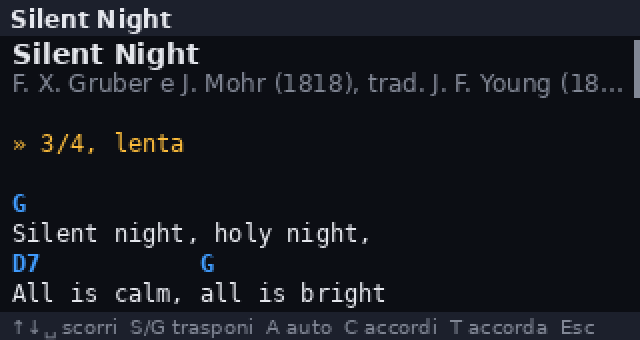
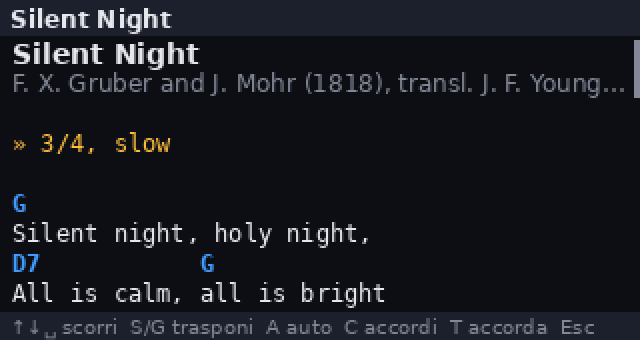
Brani: sottotitoli, note e sezioni in inglese
Sottotitoli ("public domain"), commenti visibili e sezioni dei 10 brani
in canzoni/ e dei 4 esempi creati al primo avvio ora sono in inglese;
"Esercizio arpeggio" diventa "Arpeggio exercise". I testi delle canzoni
non cambiano. Le cartelle ~/canzoni già esistenti non vengono toccate.
Schermate in docs/ aggiornate.

Claude-Session: https://claude.ai/code/session_0178xKTs3XtUrqAixMXrofCa

Changed region(s): [[0.5312, 0.2059, 0.9375, 0.2941], [0.25, 0.2059, 0.5, 0.2941], [0.1562, 0.3824, 0.3125, 0.4706]]

diff --git a/accordatore/songbook.py b/accordatore/songbook.py
@@ -608,9 +608,9 @@ def save_conf(conf: dict):
 EXAMPLES = {
     "Amazing Grace.cho": """\
 {title: Amazing Grace}
-{subtitle: John Newton, 1779 - pubblico dominio}
+{subtitle: John Newton, 1779 - public domain}
 {key: G}
-{comment: 3/4, lenta. Arrangiamento semplice di esempio}
+{comment: 3/4, slow. Simple example arrangement}
 
 [G]Amazing [G7]grace! How [C]sweet the [G]sound
 That [G]saved a [Em]wretch like [D]me! [D7]
@@ -623,9 +623,9 @@ How [G]precious [G7]did that [C]grace ap[G]pear
 The [G]hour I [D]first be[G]lieved!
 """,
     "Greensleeves.txt": """\
-Tradizionale inglese, XVI secolo - pubblico dominio
+Traditional English, 16th century - public domain
 
-[Strofa]
+[Verse]
 Am       G         Am    E
 Alas, my love, you do me wrong,
 Am         G   E
@@ -635,7 +635,7 @@ For I have loved you well and long,
 Am            E    Am
 Delighting in your company.
 
-[Ritornello]
+[Chorus]
 C            G       Am E
 Greensleeves was all my joy
 C            G      E
@@ -647,7 +647,7 @@ And who but my lady Greensleeves.
 """,
     "Quel mazzolin di fiori.cho": """\
 {title: Quel mazzolin di fiori}
-{subtitle: Canto popolare - pubblico dominio}
+{subtitle: Italian folk song - public domain}
 {key: C}
 
 [C]Quel mazzolin di [G]fiori
@@ -660,10 +660,10 @@ perché l'è un bel maz[C]zetto
 lo voglio dare al mio mo[F]ret[C]to
 questa [G]sera quando [C]vien.
 """,
-    "Esercizio arpeggio.cho": """\
-{title: Esercizio: arpeggio Am - C - G - E}
-{subtitle: esempio di intavolatura}
-{comment: Pollice sui bassi, poi indice-medio-anulare}
+    "Arpeggio exercise.cho": """\
+{title: Arpeggio exercise: Am - C - G - E}
+{subtitle: tablature example}
+{comment: Thumb on the bass strings, then index-middle-ring}
 
 {start_of_tab}
    Am        C         G         E
@@ -675,7 +675,7 @@ A|-0-------|-3-------|---------|---------|
 E|---------|---------|-3-------|-0-------|
 {end_of_tab}
 
-[Am]Ripeti quattro volte, [C]poi cambia [G]accordo [E]
+[Am]Repeat four times, [C]then change [G]chord [E]
 """,
 }
 

diff --git a/canzoni/LEGGIMI.md b/canzoni/LEGGIMI.md
@@ -25,7 +25,7 @@ Licenza: [Creative Commons Attribuzione - Condividi allo stesso modo 4.0](https:
 | Drunken Sailor | <https://de.wikibooks.org/wiki/Liederbuch/_What_shall_we_do_with_the_drunken_sailor> |
 | Auld Lang Syne | accordi: <https://de.wikibooks.org/wiki/Liederbuch/_Auld_Lang_Syne>; testo: [Wikisource, ed. 1887](https://en.wikisource.org/wiki/The_Poetical_Works_of_Robert_Burns/Auld_Lang_Syne) |
 
-Modifiche rispetto alle fonti: conversione in formato ChordPro, righe divise per lo schermo da 320×170, note in italiano, notazione tedesca H7 resa come B7, correzione di un refuso ("Haeve" → "Heave"), tolti gli accordi blues opzionali nell'ultima strofa di Swing Low. Dove serviva, sono state integrate strofe di pubblico dominio (Danny Boy: testo del 1913). I dettagli sono nelle righe `#` di ogni file. Queste versioni modificate sono distribuite con la stessa licenza CC BY-SA 4.0.
+Modifiche rispetto alle fonti: conversione in formato ChordPro, righe divise per lo schermo da 320×170, note e sottotitoli in inglese, notazione tedesca H7 resa come B7, correzione di un refuso ("Haeve" → "Heave"), tolti gli accordi blues opzionali nell'ultima strofa di Swing Low. Dove serviva, sono state integrate strofe di pubblico dominio (Danny Boy: testo del 1913). I dettagli sono nelle righe `#` di ogni file. Queste versioni modificate sono distribuite con la stessa licenza CC BY-SA 4.0.
 
 ## MIT — accordi da cardinote/christmas-chords-lyrics
 
@@ -42,7 +42,7 @@ Modifiche: conversione in formato ChordPro, righe divise per lo schermo.
 
 ## I quattro esempi dentro l'app
 
-Amazing Grace, Greensleeves, Quel mazzolin di fiori ed Esercizio arpeggio vengono creati dall'app in `~/canzoni` al primo avvio. Sono arrangiamenti semplici scritti per questo progetto su testi di pubblico dominio, e seguono la licenza MIT del repository.
+Amazing Grace, Greensleeves, Quel mazzolin di fiori e Arpeggio exercise vengono creati dall'app in `~/canzoni` al primo avvio. Sono arrangiamenti semplici scritti per questo progetto su testi di pubblico dominio, e seguono la licenza MIT del repository.
 
 ## Segnalazioni
 
